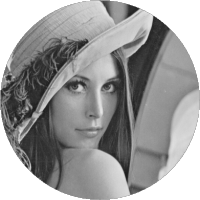
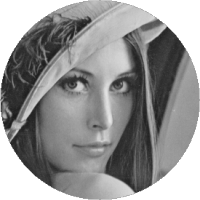
added cropfill variant
- fills when there isn't enough image
- crops when there is to little

diff --git a/facecropper/core.py b/facecropper/core.py
@@ -18,6 +18,31 @@ logger.propagate = False
 logger.addHandler(console)
 
 
+def cropfill(img: np.ndarray,
+             top: int,
+             right: int,
+             bottom: int,
+             left: int,
+             ):
+
+    dimen = (top,
+             len(img[1]) - right,
+             len(img) - bottom,
+             left,
+             )
+
+    for i, size in enumerate(dimen):
+        logger.debug(f"cropfill {i}: {size}")
+
+        if size < 0:
+            img = np.insert(img, 0, [img[0]] * -size, 0)
+        else:
+            img = img[size:]
+        img = np.rot90(img, k=1, axes=(0, 1))
+
+    return img
+
+
 def extract_faces(img: np.ndarray,
                   cascade: cv2.CascadeClassifier,
                   spacing: float = 0.0,
@@ -46,13 +71,13 @@ def extract_faces(img: np.ndarray,
                      f"{width + space_horizontal*2}x" +
                      f"{height + space_vertical*2}")
 
-        y0 = max(0, y - space_vertical)
-        y1 = min(y + height + space_vertical, len(img))
-        x0 = max(0, x - space_horizontal)
-        x1 = min(x + width + space_horizontal, len(img[0]))
+        left = x - space_horizontal
+        top = y - space_vertical
+        right = x + width + space_horizontal
+        bottom = y + height + space_vertical
 
-        # crop out face, including the calculated space
-        face = img[y0: y1, x0: x1, ]
+        # compute filling points
+        face = cropfill(img, top, right, bottom, left)
 
         faces.append(face)
 
